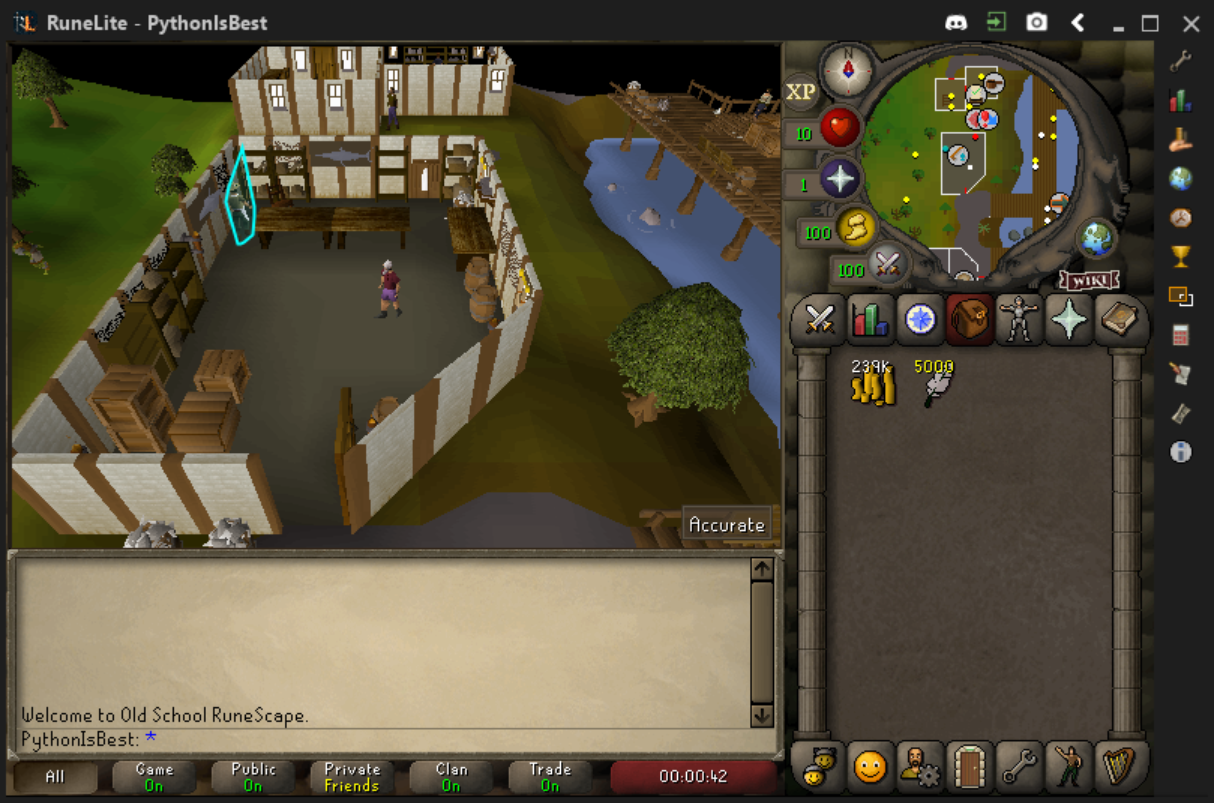
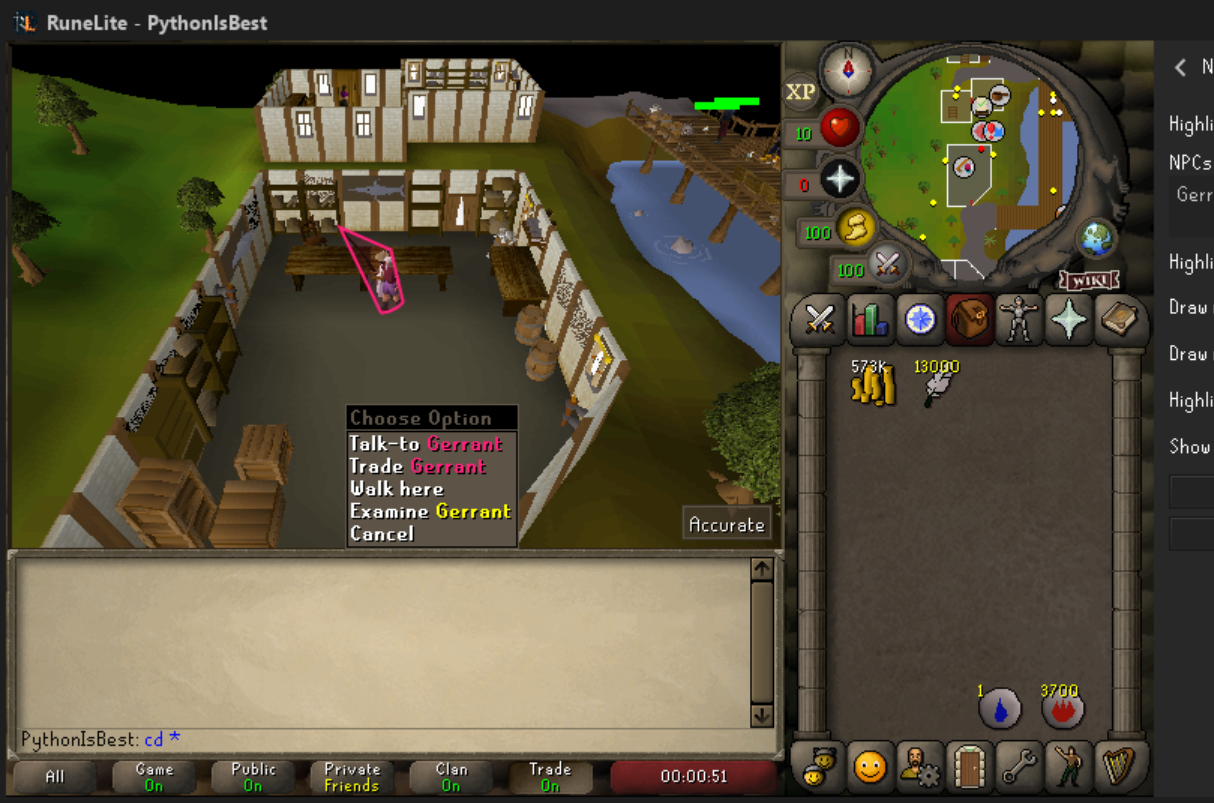
Changed colors of highlight, added more antibot movements.

diff --git a/FeatherBuying.py b/FeatherBuying.py
@@ -10,6 +10,7 @@ from modules import RandomTime
 from modules import Screenshot
 import login
 
+'''
 LH = 86
 LS = 234
 LV = 202
@@ -23,10 +24,29 @@ LV1 = 200
 UH1 = 255
 US1 = 255
 UV1 = 251
+'''
+
+LH = 167
+LS = 213
+LV = 190
+UH = 255
+US = 255
+UV = 255
+
+LH1 = 167
+LS1 = 213
+LV1 = 255
+UH1 = 255
+US1 = 255
+UV1 = 255
 
 w = setup.Window()
 geometry = w.window_stats()
 screen = pauto.size()
+'''
+SKILLS = pauto.locateCenterOnScreen('skills.png')
+INVENTORY = pauto.locateCenterOnScreen('inventory.png')
+'''
 
 def setup_settings():
 	Mouse.moveClick(random.randint(1000, 1039), random.randint(745, 785), 1)
@@ -82,14 +102,44 @@ def click_featherpack():
 	# MOMMY'S LAPTOP
 	Mouse.moveClick(random.randint(656, 677), random.randint(246, 266), 1)
 	time.sleep(random.randint(350, 650)/1000)
+	
 
 # Where x1, y1, x2, y2, are the client window size coordinates
 # Where v, z, are the screen size
 def wait_featherpack(x1, y1, x2, y2, v, z):
-	Mouse.moveTo(random.randint(x2 + 50, v - 150), random.randint(y2 + 50, z - 150))
-	time.sleep(random.randint(7500, 10000)/1000)
-	Mouse.moveTo(random.randint(x1 + 19, x2 - 150), random.randint(y1 + 19, y2 - 150))
-	time.sleep(random.randint(2000, 3000)/1000)
+	chance = random.randint(1, 100)
+	if chance < 80:
+		# Move mouse out of screen
+		Mouse.moveTo(random.randint(x2 + 50, v - 150), random.randint(y2 + 50, z - 150))
+		time.sleep(random.randint(7500, 10000)/1000)
+		Mouse.moveTo(random.randint(x1 + 19, x2 - 150), random.randint(y1 + 19, y2 - 150))
+		time.sleep(random.randint(2000, 3000)/1000)
+	elif chance >= 80 and chance < 90:
+		# SURFACE LAPTOP
+		'''
+		# Clicks on skills and hover around the area
+		Mouse.moveClick(random.randint(853, 890), random.randint(297, 343), 1)
+		time.sleep(random.randint(5000, 7500)/1000)
+		Mouse.moveClick(random.randint(949, 990), random.randint(295, 341), 1)
+		time.sleep(random.randint(600, 900)/1000)
+		Mouse.moveTo(random.randint(x1 + 19, x2 - 150), random.randint(y1 + 19, y2 - 150))
+		time.sleep(random.randint(4000, 6000)/1000)
+		'''
+		# MOMMY'S LAPTOP
+		Mouse.moveClick(random.randint(568, 592), random.randint(198, 225), 1)
+		time.sleep(random.randint(5000, 7500)/1000)
+		Mouse.moveClick(random.randint(633, 659), random.randint(197, 225), 1)
+		time.sleep(random.randint(600, 900)/1000)
+		Mouse.moveTo(random.randint(x1 + 19, x2 - 150), random.randint(y1 + 19, y2 - 150))
+		time.sleep(random.randint(4000, 6000)/1000)
+
+	elif chance >= 90:
+		move_camera()
+		Mouse.moveTo(random.randint(x1 + 19, x2 - 150), random.randint(y1 + 19, y2 - 150))
+		time.sleep(random.randint(4000, 6000)/1000)
+		move_camera()
+		time.sleep(random.randint(4000, 6000)/1000)
+
 
 # Checks if find_gerrant right click is valid
 def click_check():#lh, ls, lv, uh, us, uv):
@@ -119,6 +169,7 @@ def click_valid():
 	time.sleep(RandomTime.randTime(0, 2, 2, 0, 3, 3))
 	Mouse.click('left')
 	time.sleep(random.randint(4000, 6000)/1000)
+	
 
 # Buys featherpack and closes store window
 def buy_featherpack():
@@ -134,6 +185,7 @@ def buy_featherpack():
 	Mouse.relMove(0, random.randint(69, 75))
 	Mouse.click('left')
 	Mouse.moveClick(random.randint(482, 497), random.randint(62, 76), 1)
+	
 
 def move_camera():
 	dir = random.randint(0, 1)
@@ -167,7 +219,7 @@ try:
 	time.sleep(2)
 	
 
-	reps = 30
+	reps = 60
 	for i in range(reps):
 		print('Finding Gerrant.')
 		while True:

diff --git a/modules/Screenshot.py b/modules/Screenshot.py
@@ -6,6 +6,7 @@ from PIL import ImageGrab
 import win32gui as wgui
 
 from modules import WindowMgr
+#import WindowMgr
 
 LH = 86
 LS = 234
@@ -21,19 +22,19 @@ RES_SCRN = pauto.size()
 
 # Return HSV format of screenshot of what is highlighted with given HSV
 def shoot():
-	'''
+	
 	image = pauto.screenshot(PATH, region=(0, 0, 1214, 803))
 	frame = cv2.imread(PATH)
 	hsv = cv2.cvtColor(frame, cv2.COLOR_BGR2HSV)
-	os.remove(PATH)
-	'''
+	#os.remove(PATH)
 	
+	'''
 	#image = pauto.screenshot(region=(0, 0, 1214, 803))
 	image = pauto.screenshot(region=(RES_IMG[0], RES_IMG[1], RES_IMG[2], RES_IMG[3]))
 	image = cv2.cvtColor(np.array(image), cv2.COLOR_RGB2BGR)
 	frame = np.array(image)
 	hsv = cv2.cvtColor(frame, cv2.COLOR_BGR2HSV)
-	
+	'''
 	'''
 	img = ImageGrab.grab(bbox=(0, 0, 1214, 803)).convert('RGB')
 	img_np = np.array(img)
@@ -57,7 +58,7 @@ def shot_coords(lh, ls, lv, uh, us, uv, hsv):
 		return [None]
 	'''
 	try:
-		if points.size < 500:
+		if points.size < 10:
 			return [None]
 	except AttributeError:
 		return [None]
